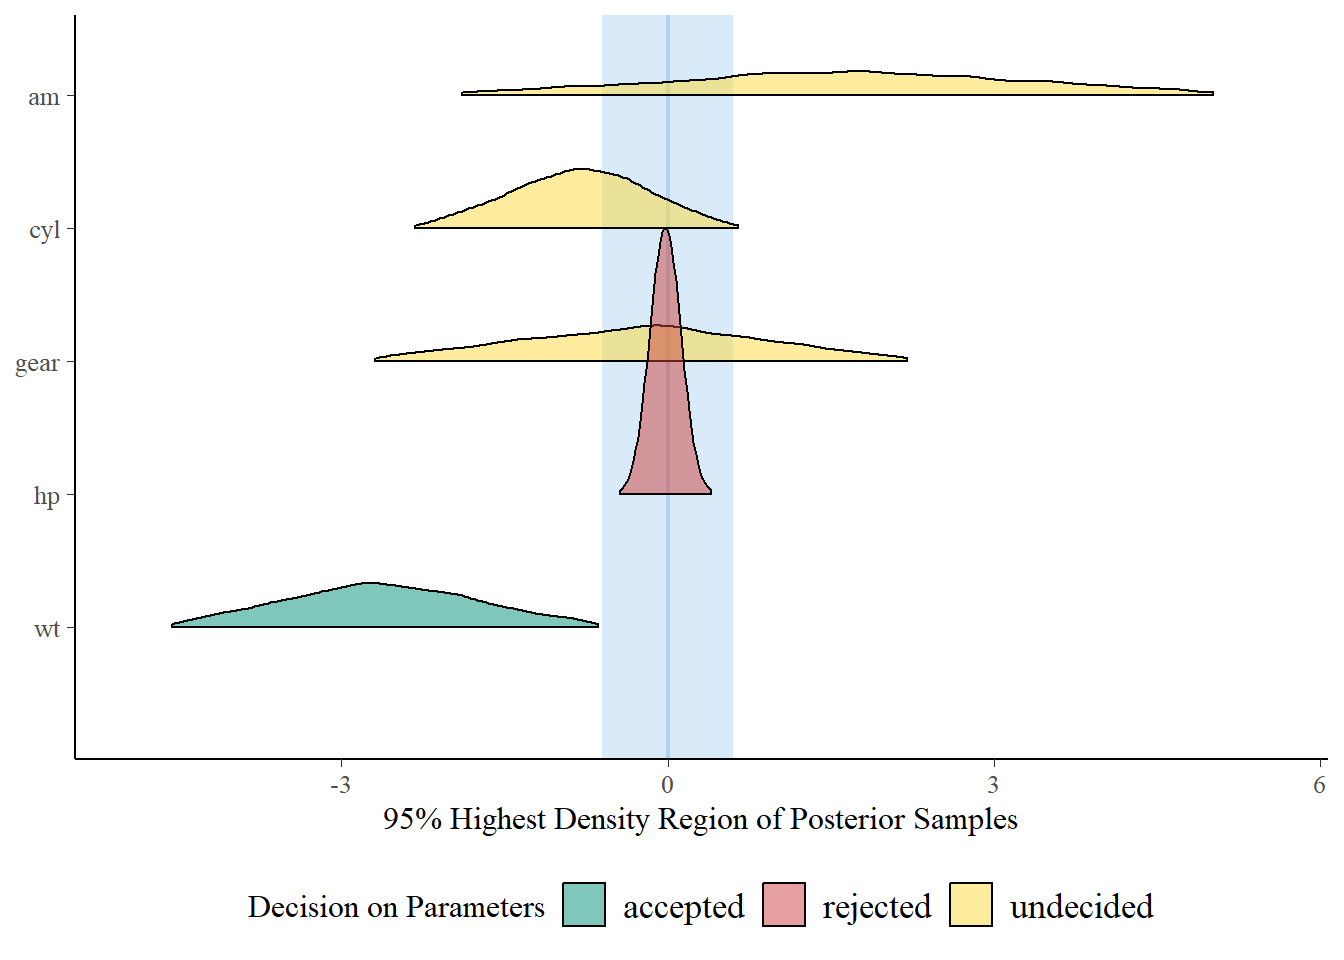
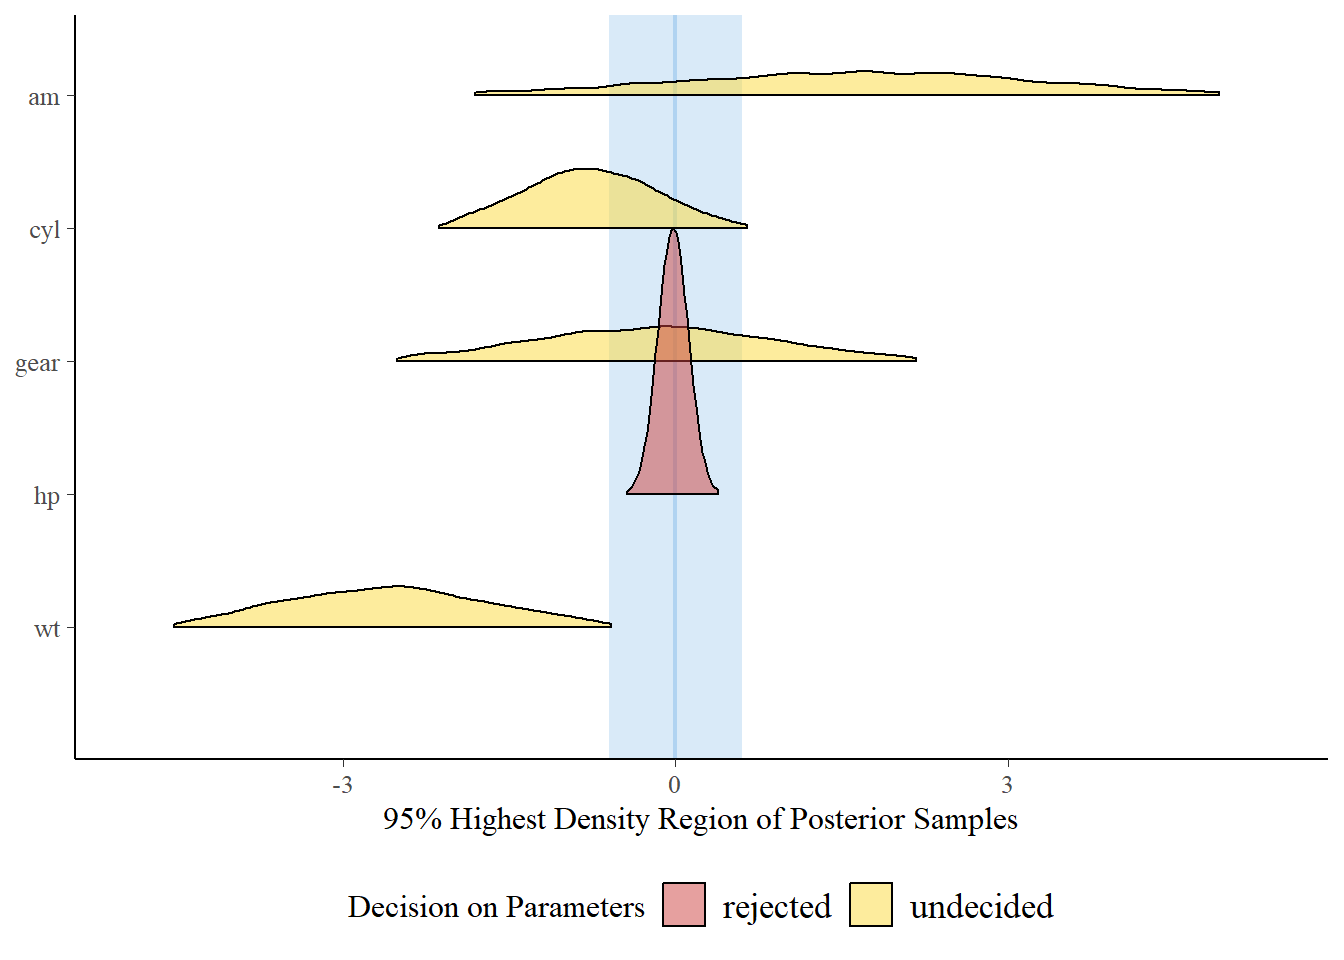
minor
close #17

diff --git a/docs/ressources/index.html b/docs/ressources/index.html
@@ -23,15 +23,15 @@
 <meta name="twitter:card" content="summary"/>
 <meta name="twitter:title" content="Learn R"/>
 <meta name="twitter:description" content="Guides Here are some links to get started with R:
- R for Datascience Quick-R Datacamp EdX courses YaRrr! The Pirate&rsquo;s Guide to R LearnR Youtube Channel Yan Holtz&rsquo;s tutorials  Stay tuned Here are some links of blogs and such to keep in touch with this evolving field:
+ R for Datascience Quick-R EdX courses YaRrr! The Pirate&rsquo;s Guide to R LearnR Youtube Channel Yan Holtz&rsquo;s tutorials Data Visualization: A practical introduction   Stay tuned Here are some links of blogs and such to keep in touch with this evolving field:
  r-bloggers r-weekly  Miscellaneous This section contains more scope-focused resources:
- Interpretable Machine Learning book Structural Equation Modeling using Lavaan  Contribute You can contribute to this post by adding more resources here."/>
+ Interpretable Machine Learning book Structural Equation Modeling using Lavaan  For Psychology  Learning Statistics with R R for Psychological Science Statistical Modeling and Mixed Models with R  Contribute You can contribute to this post by adding more resources here."/>
 
 <meta property="og:title" content="Learn R" />
 <meta property="og:description" content="Guides Here are some links to get started with R:
- R for Datascience Quick-R Datacamp EdX courses YaRrr! The Pirate&rsquo;s Guide to R LearnR Youtube Channel Yan Holtz&rsquo;s tutorials  Stay tuned Here are some links of blogs and such to keep in touch with this evolving field:
+ R for Datascience Quick-R EdX courses YaRrr! The Pirate&rsquo;s Guide to R LearnR Youtube Channel Yan Holtz&rsquo;s tutorials Data Visualization: A practical introduction   Stay tuned Here are some links of blogs and such to keep in touch with this evolving field:
  r-bloggers r-weekly  Miscellaneous This section contains more scope-focused resources:
- Interpretable Machine Learning book Structural Equation Modeling using Lavaan  Contribute You can contribute to this post by adding more resources here." />
+ Interpretable Machine Learning book Structural Equation Modeling using Lavaan  For Psychology  Learning Statistics with R R for Psychological Science Statistical Modeling and Mixed Models with R  Contribute You can contribute to this post by adding more resources here." />
 <meta property="og:type" content="article" />
 <meta property="og:url" content="/blog/ressources/" /><meta property="og:site_name" content="easystats" />
 
@@ -192,11 +192,12 @@
 <ul>
 <li><a href="https://r4ds.had.co.nz/"><strong>R for Datascience</strong></a></li>
 <li><a href="https://www.statmethods.net/r-tutorial/index.html"><strong>Quick-R</strong></a></li>
-<li><a href="https://www.datacamp.com/"><strong>Datacamp</strong></a></li>
 <li><a href="https://www.edx.org/learn/r-programming"><strong>EdX courses</strong></a></li>
 <li><a href="https://bookdown.org/ndphillips/YaRrr/"><strong>YaRrr! The Pirate&rsquo;s Guide to R</strong></a></li>
 <li><a href="https://www.youtube.com/user/TheLearnR/"><strong>LearnR Youtube Channel</strong></a></li>
 <li><a href="https://www.yan-holtz.com/teaching"><strong>Yan Holtz&rsquo;s tutorials</strong></a></li>
+<li><a href="https://socviz.co/"><strong>Data Visualization: A practical introduction</strong></a>
+<br /></li>
 </ul>
 
 <h2 id="stay-tuned">Stay tuned</h2>
@@ -214,9 +215,16 @@ evolving field:</p>
 <p>This section contains more scope-focused resources:</p>
 
 <ul>
-<li><a href="https://christophm.github.io/interpretable-ml-book/"><strong>Interpretable Machine Learning
-book</strong></a></li>
+<li><a href="https://christophm.github.io/interpretable-ml-book/"><strong>Interpretable Machine Learning book</strong></a></li>
 <li><a href="https://curranbauer.org/wp-content/uploads/2019/04/SEM-R-notes-for-web-2019.pdf"><strong>Structural Equation Modeling using Lavaan</strong></a></li>
+</ul>
+
+<h2 id="for-psychology">For Psychology</h2>
+
+<ul>
+<li><a href="https://learningstatisticswithr.com/"><strong>Learning Statistics with R</strong></a></li>
+<li><a href="https://psyr.org/"><strong>R for Psychological Science</strong></a></li>
+<li><a href="https://github.com/singmann/mixed_model_workshop"><strong>Statistical Modeling and Mixed Models with R</strong></a></li>
 </ul>
 
 <h2 id="contribute">Contribute</h2>

diff --git a/docs/posts/performance_presentation/index.html b/docs/posts/performance_presentation/index.html
@@ -262,8 +262,8 @@ icc(model)</code></pre>
 <p>Now let’s compute <strong>all available</strong> indices of performance appropriate for a given model. This can be done via the <a href="https://easystats.github.io/performance/reference/model_performance.html"><strong>model_performance()</strong></a>.</p>
 <pre class="r"><code># Compute all performance indices
 model_performance(model)</code></pre>
-<pre><code>&gt;   AIC BIC R2_conditional R2_marginal ICC_adjusted ICC_conditional RMSE
-&gt; 1 107 119           0.91        0.22         0.89             0.7 0.31</code></pre>
+<pre><code>&gt;   AIC BIC R2_conditional R2_marginal  ICC RMSE
+&gt; 1 107 119           0.91        0.22 0.89 0.31</code></pre>
 </div>
 <div id="bayesian-mixed-models" class="section level3">
 <h3>Bayesian Mixed Models</h3>
@@ -276,14 +276,10 @@ model &lt;- stan_glmer(Sepal.Width ~ Petal.Length + (1|Species), data = iris)
 
 # Compute performance indices
 model_performance(model)</code></pre>
-<pre><code>&gt;   ELPD ELPD_SE LOOIC LOOIC_SE R2_Median R2_MAD R2_Mean R2_SD R2_MAP
-&gt; 1  -44      10    87       20      0.47  0.045    0.47 0.046   0.47
-&gt;   R2_CI_low R2_CI_high R2_marginal_Median R2_marginal_MAD R2_marginal_Mean
-&gt; 1       0.4       0.55               0.27           0.045             0.27
-&gt;   R2_marginal_SD R2_marginal_MAP R2_marginal_CI_low R2_marginal_CI_high
-&gt; 1          0.048            0.29               0.19                0.34
-&gt;   R2_LOO_adjusted
-&gt; 1            0.45</code></pre>
+<pre><code>&gt;   ELPD ELPD_SE LOOIC LOOIC_SE   R2 R2_SE R2_marginal R2_marginal_SE
+&gt; 1  -43      10    87       20 0.47 0.046        0.27          0.048
+&gt;   R2_LOO_adjusted RMSE
+&gt; 1            0.45 0.31</code></pre>
 <ul>
 <li><strong>Don’t forget to check out the</strong> <a href="https://easystats.github.io/performance/"><strong>documentation here</strong></a> <strong>for more!</strong></li>
 </ul>

diff --git a/content/posts/performance_presentation.html b/content/posts/performance_presentation.html
@@ -45,8 +45,8 @@ icc(model)</code></pre>
 <p>Now let’s compute <strong>all available</strong> indices of performance appropriate for a given model. This can be done via the <a href="https://easystats.github.io/performance/reference/model_performance.html"><strong>model_performance()</strong></a>.</p>
 <pre class="r"><code># Compute all performance indices
 model_performance(model)</code></pre>
-<pre><code>&gt;   AIC BIC R2_conditional R2_marginal ICC_adjusted ICC_conditional RMSE
-&gt; 1 107 119           0.91        0.22         0.89             0.7 0.31</code></pre>
+<pre><code>&gt;   AIC BIC R2_conditional R2_marginal  ICC RMSE
+&gt; 1 107 119           0.91        0.22 0.89 0.31</code></pre>
 </div>
 <div id="bayesian-mixed-models" class="section level3">
 <h3>Bayesian Mixed Models</h3>
@@ -59,14 +59,10 @@ model &lt;- stan_glmer(Sepal.Width ~ Petal.Length + (1|Species), data = iris)
 
 # Compute performance indices
 model_performance(model)</code></pre>
-<pre><code>&gt;   ELPD ELPD_SE LOOIC LOOIC_SE R2_Median R2_MAD R2_Mean R2_SD R2_MAP
-&gt; 1  -44      10    87       20      0.47  0.045    0.47 0.046   0.47
-&gt;   R2_CI_low R2_CI_high R2_marginal_Median R2_marginal_MAD R2_marginal_Mean
-&gt; 1       0.4       0.55               0.27           0.045             0.27
-&gt;   R2_marginal_SD R2_marginal_MAP R2_marginal_CI_low R2_marginal_CI_high
-&gt; 1          0.048            0.29               0.19                0.34
-&gt;   R2_LOO_adjusted
-&gt; 1            0.45</code></pre>
+<pre><code>&gt;   ELPD ELPD_SE LOOIC LOOIC_SE   R2 R2_SE R2_marginal R2_marginal_SE
+&gt; 1  -43      10    87       20 0.47 0.046        0.27          0.048
+&gt;   R2_LOO_adjusted RMSE
+&gt; 1            0.45 0.31</code></pre>
 <ul>
 <li><strong>Don’t forget to check out the</strong> <a href="https://easystats.github.io/performance/"><strong>documentation here</strong></a> <strong>for more!</strong></li>
 </ul>

diff --git a/docs/portfolio/index.html b/docs/portfolio/index.html
@@ -192,7 +192,7 @@
             <div class="row">
                 <div class="col-md-4 col-sm-4 col-xs-12" href="https://github.com/orgs/easystats/people"
                     target="_blank" rel="noopener noreferrer">
-                    <img class="project__image img-responsive" src="warrior.png" alt="People">
+                    <img class="project__image img-responsive" src="ghostbusters.jpg" alt="People">
                 </div>
                 <div class="col-md-8 col-sm-8 col-xs-12">
                     <span class="project__title">
@@ -209,6 +209,8 @@
 <ul>
 <li><a href="https://github.com/DominiqueMakowski">Dominique Makowski</a></li>
 <li><a href="https://github.com/strengejacke">Daniel Lüdecke</a></li>
+<li><a href="https://github.com/mattansb">Mattan S. Ben-Shachar</a></li>
+<li><a href="https://github.com/pdwaggoner">Philip Waggoner</a></li>
 </ul>
 
                     </span>

diff --git a/docs/posts/bayestestr_presentation/index.html b/docs/posts/bayestestr_presentation/index.html
@@ -251,11 +251,11 @@ equivalence_test(model)</code></pre>
 ##   ROPE: [-0.60 0.60]
 ## 
 ##    Parameter        H0 inside ROPE       95% HDI
-##  (Intercept)  rejected      0.00 % [24.52 49.35]
-##           wt  rejected      0.00 % [-4.50 -0.68]
-##          cyl undecided     37.65 % [-2.24  0.57]
-##         gear undecided     39.83 % [-2.69  2.22]
-##           am undecided     16.84 % [-2.00  5.12]
+##  (Intercept)  rejected      0.00 % [24.75 48.74]
+##           wt undecided      0.03 % [-4.50 -0.60]
+##          cyl undecided     38.60 % [-2.03  0.58]
+##         gear undecided     41.44 % [-2.48  2.19]
+##           am undecided     17.81 % [-1.91  4.96]
 ##           hp  accepted    100.00 % [-0.06  0.01]</code></pre>
 <p>Results can also be plotted, to get a better impression of the posterior distributions and the ROPE-coverage.</p>
 <pre class="r"><code># Do the test and plot results

diff --git a/content/posts/bayestestR_presentation.html b/content/posts/bayestestR_presentation.html
@@ -34,11 +34,11 @@ equivalence_test(model)</code></pre>
 ##   ROPE: [-0.60 0.60]
 ## 
 ##    Parameter        H0 inside ROPE       95% HDI
-##  (Intercept)  rejected      0.00 % [24.52 49.35]
-##           wt  rejected      0.00 % [-4.50 -0.68]
-##          cyl undecided     37.65 % [-2.24  0.57]
-##         gear undecided     39.83 % [-2.69  2.22]
-##           am undecided     16.84 % [-2.00  5.12]
+##  (Intercept)  rejected      0.00 % [24.75 48.74]
+##           wt undecided      0.03 % [-4.50 -0.60]
+##          cyl undecided     38.60 % [-2.03  0.58]
+##         gear undecided     41.44 % [-2.48  2.19]
+##           am undecided     17.81 % [-1.91  4.96]
 ##           hp  accepted    100.00 % [-0.06  0.01]</code></pre>
 <p>Results can also be plotted, to get a better impression of the posterior distributions and the ROPE-coverage.</p>
 <pre class="r"><code># Do the test and plot results

diff --git a/docs/portfolio/people/index.html b/docs/portfolio/people/index.html
@@ -185,6 +185,8 @@
 <ul>
 <li><a href="https://github.com/DominiqueMakowski">Dominique Makowski</a></li>
 <li><a href="https://github.com/strengejacke">Daniel Lüdecke</a></li>
+<li><a href="https://github.com/mattansb">Mattan S. Ben-Shachar</a></li>
+<li><a href="https://github.com/pdwaggoner">Philip Waggoner</a></li>
 </ul>
 
   </div>

diff --git a/content/ressources.md b/content/ressources.md
@@ -14,6 +14,8 @@ Here are some links to get started with R:
   - [**YaRrr\! The Pirate's Guide to R**](https://bookdown.org/ndphillips/YaRrr/)
   - [**LearnR Youtube Channel**](https://www.youtube.com/user/TheLearnR/)
   - [**Yan Holtz's tutorials**](https://www.yan-holtz.com/teaching)
+  - [**Data Visualization: A practical introduction**](https://socviz.co/)
+  
 
 ## Stay tuned
 
@@ -29,6 +31,11 @@ This section contains more scope-focused resources:
 
   - [**Interpretable Machine Learning book**](https://christophm.github.io/interpretable-ml-book/)
   - [**Structural Equation Modeling using Lavaan**](https://curranbauer.org/wp-content/uploads/2019/04/SEM-R-notes-for-web-2019.pdf)
+
+## For Psychology
+  - [**Learning Statistics with R**](https://learningstatisticswithr.com/)
+  - [**R for Psychological Science**](https://psyr.org/)
+  - [**Statistical Modeling and Mixed Models with R**](https://github.com/singmann/mixed_model_workshop)
 
 ## Contribute
 

diff --git a/content/portfolio/people.md b/content/portfolio/people.md
@@ -3,7 +3,7 @@ date: "2018-06-21"
 description: Join the monster hunters
 layout: portfolio
 link: https://github.com/orgs/easystats/people
-screenshot: warrior.png
+screenshot: ghostbusters.jpg
 title: People
 ---
 
